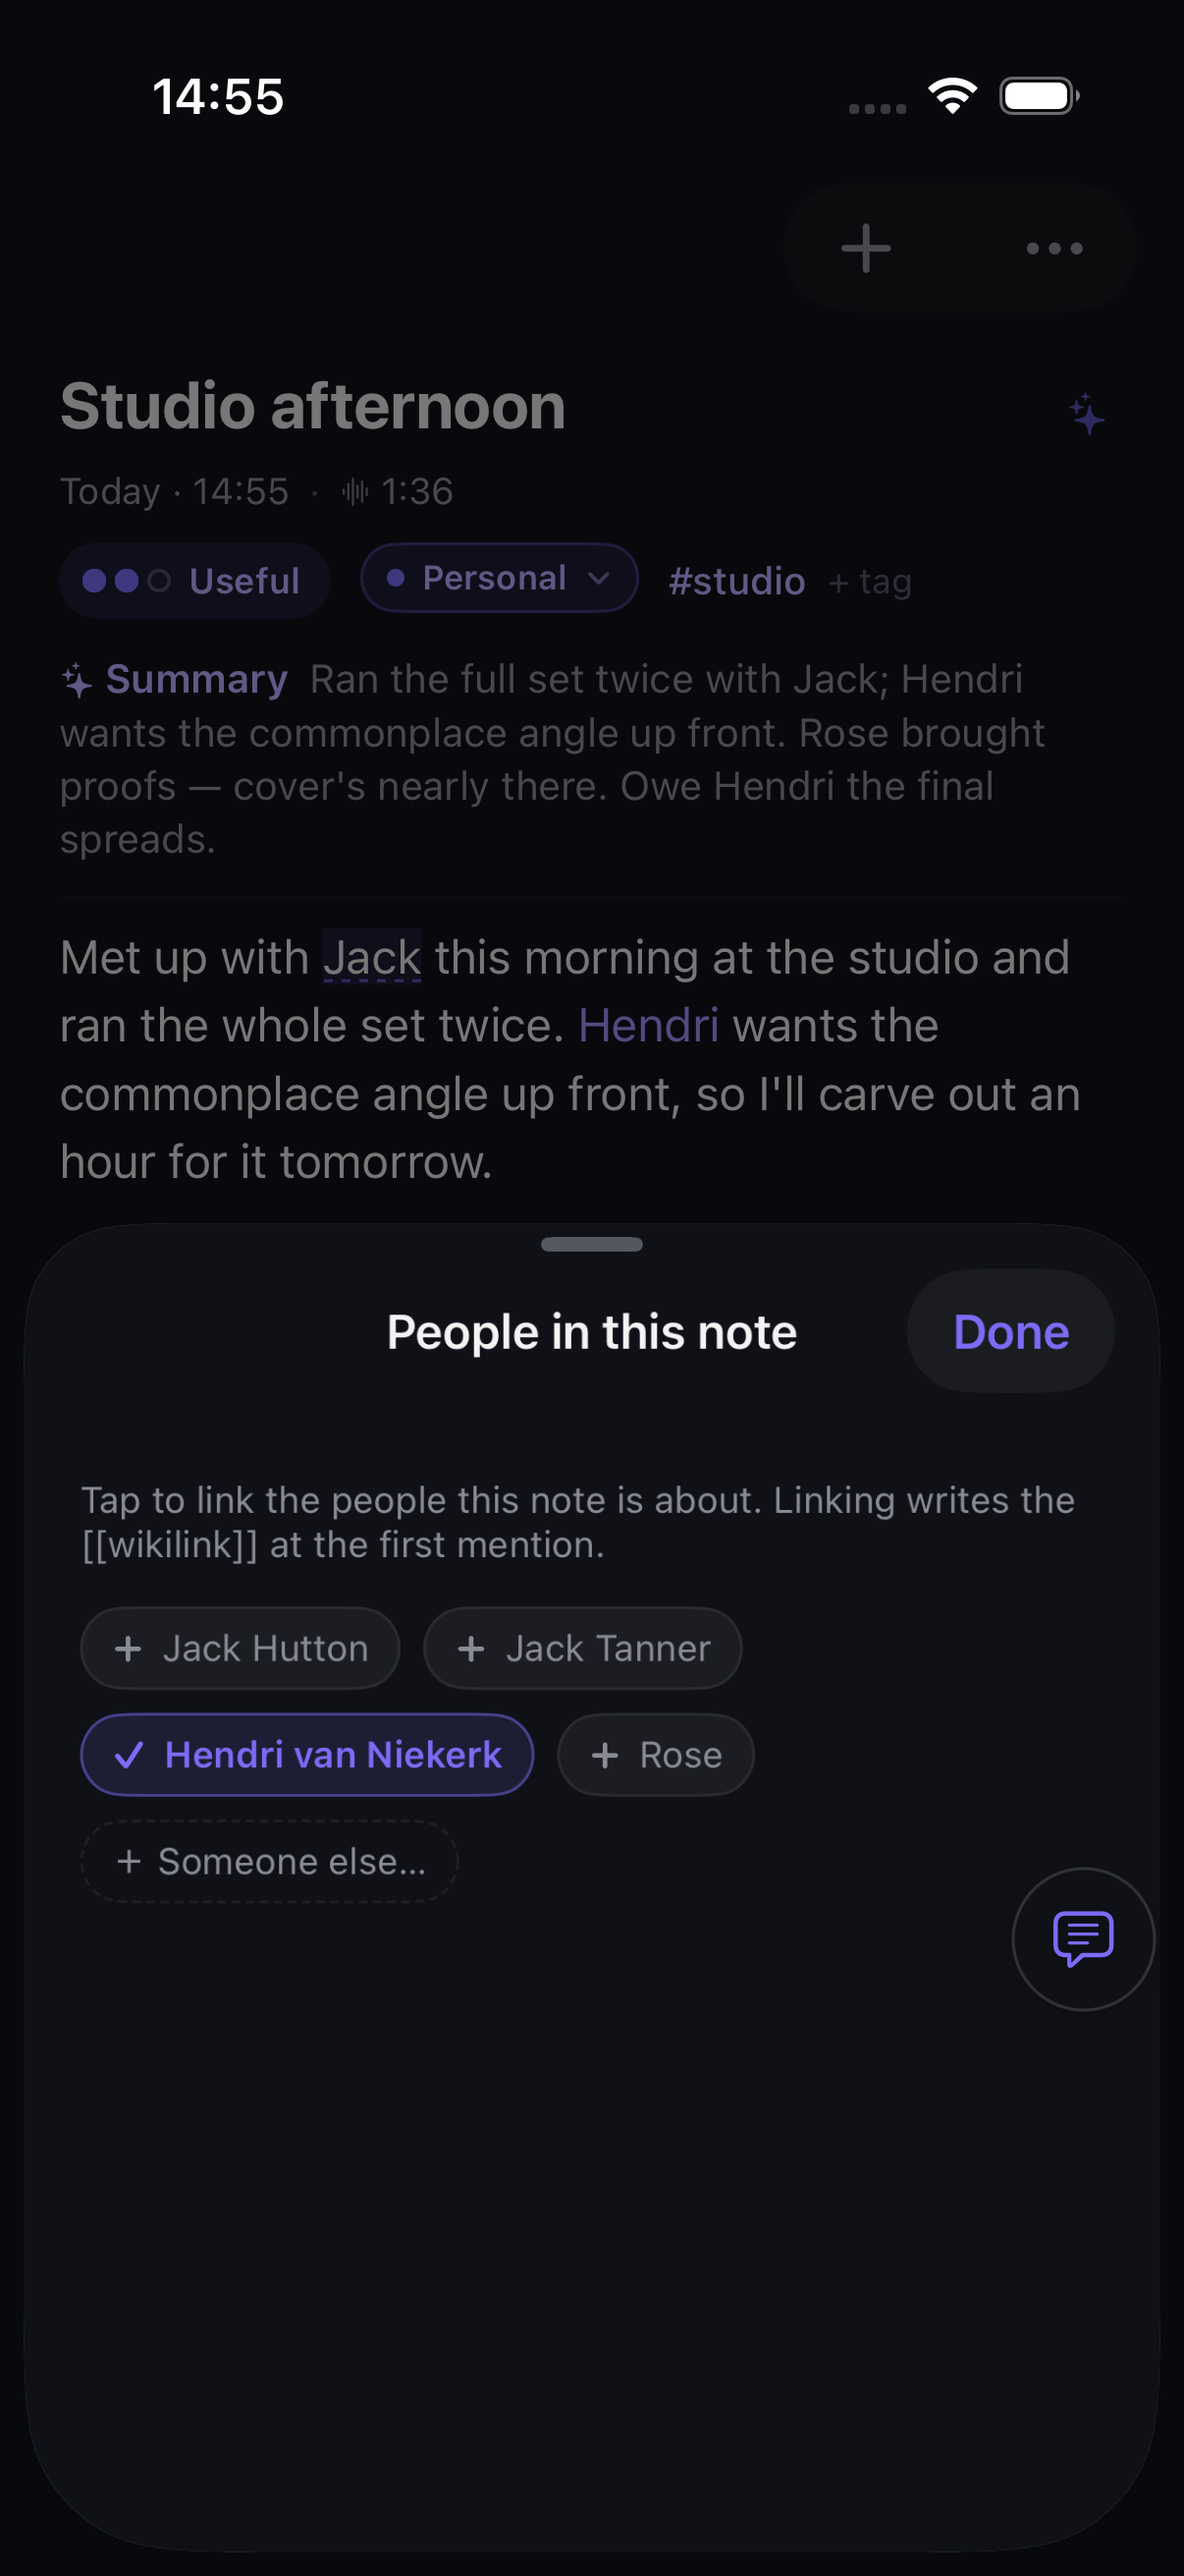
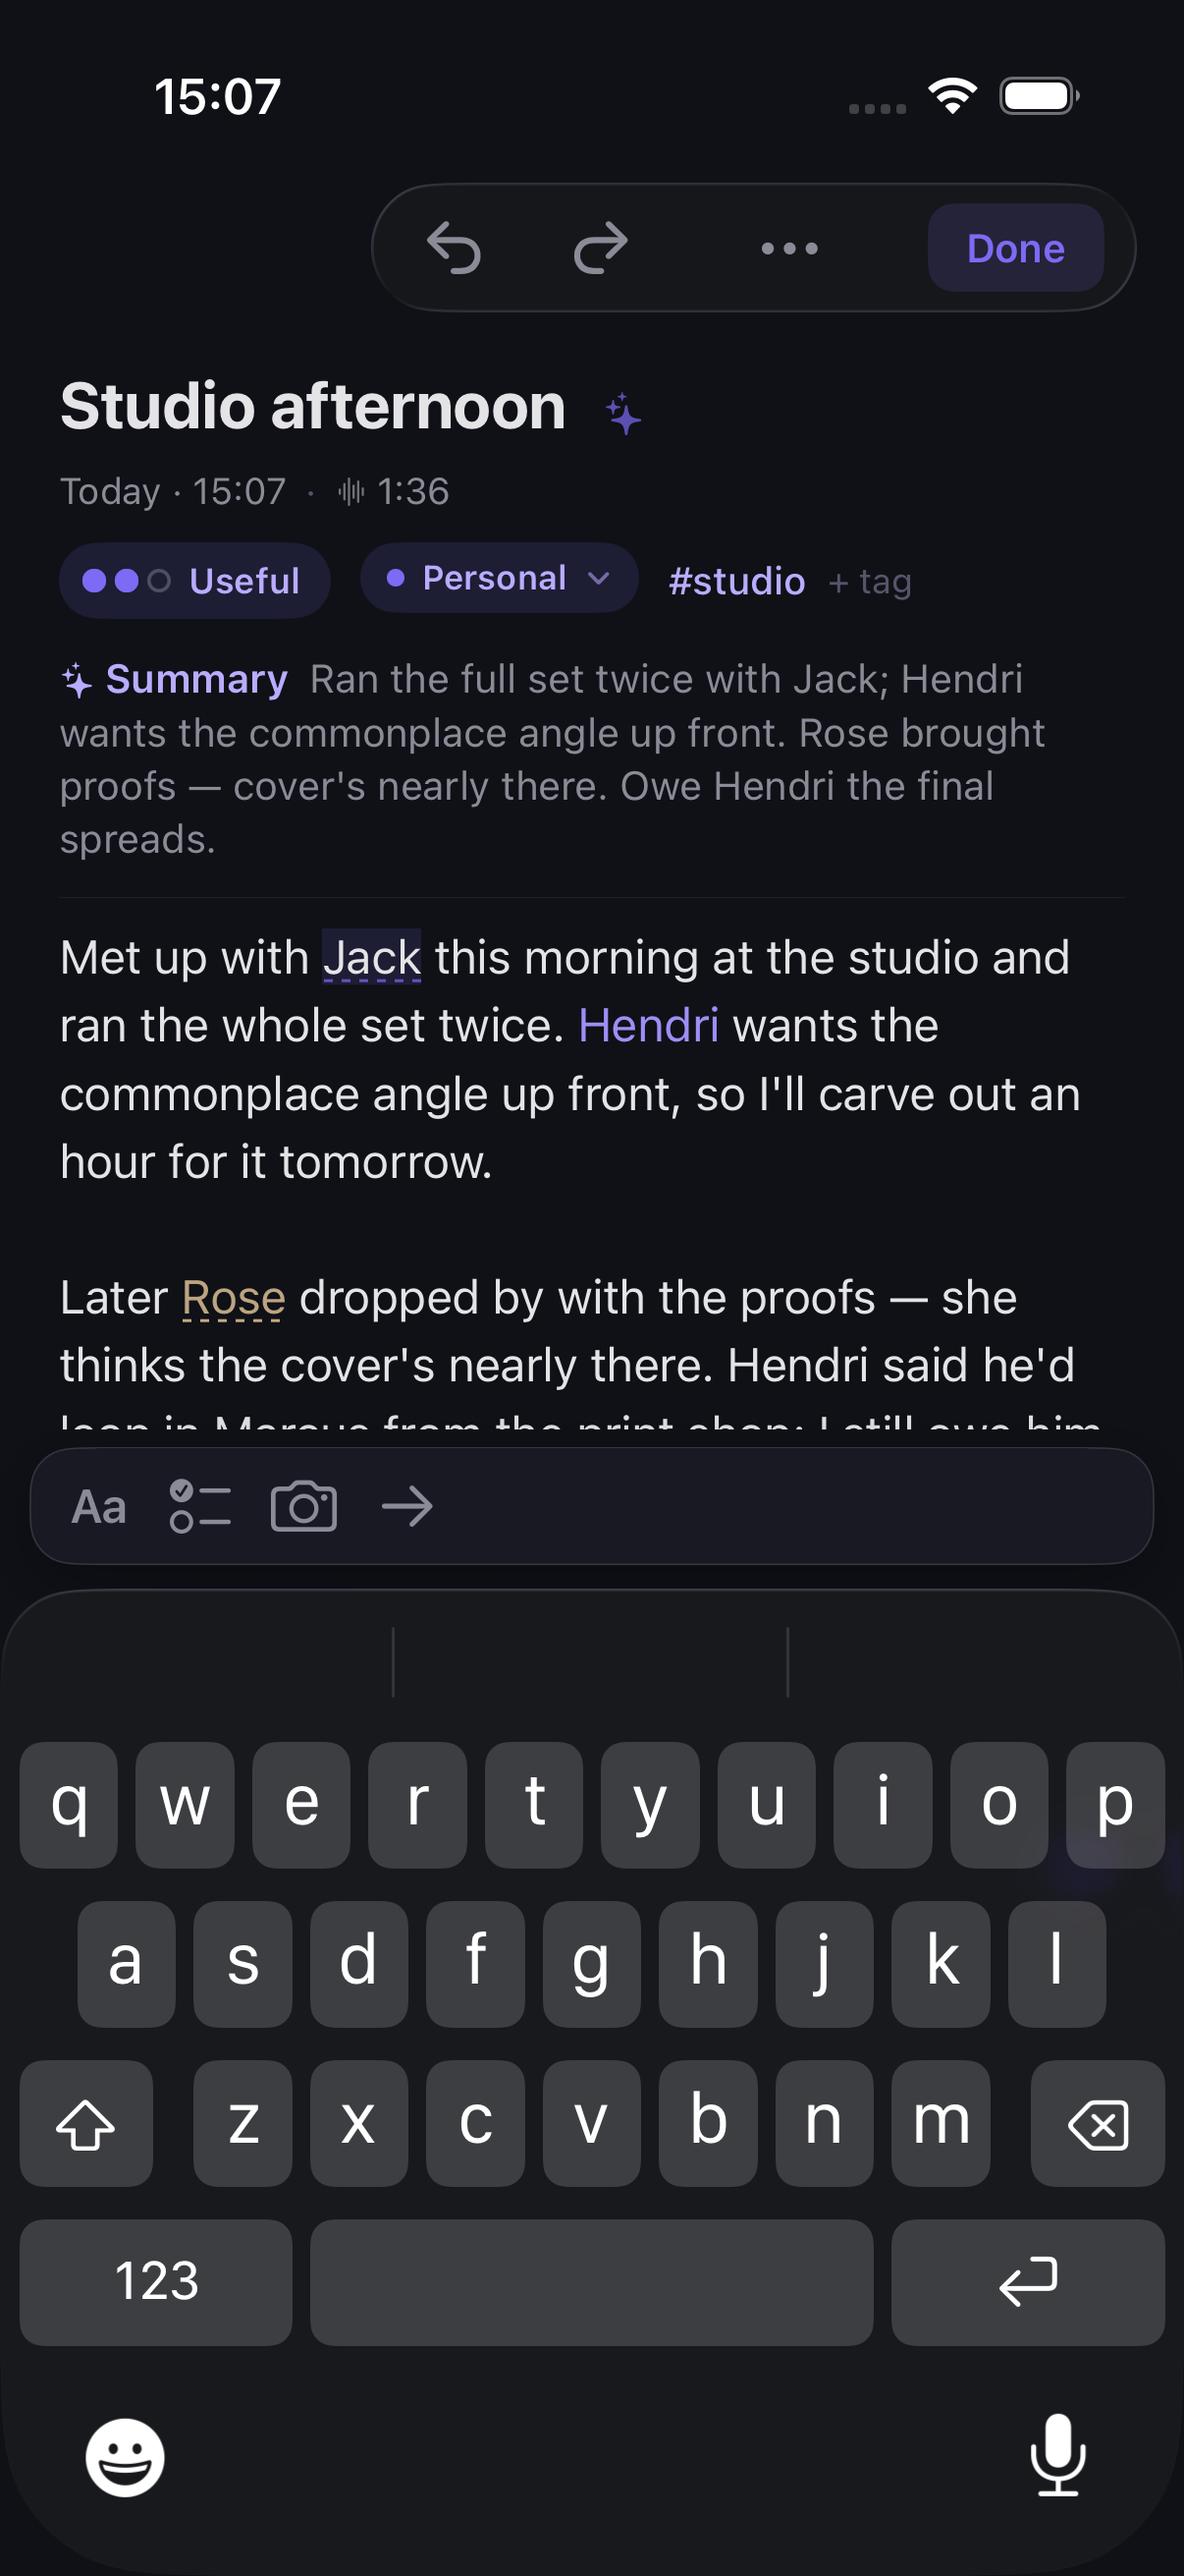
Q359 step 1: screenshot test passes (open the row, format ids), player hides while typing, phone-1..7 PNGs

diff --git a/Skrift_Native/SkriftMobile/SkriftMobileUITests/EditorAppleQ359ScreenshotUITests.swift b/Skrift_Native/SkriftMobile/SkriftMobileUITests/EditorAppleQ359ScreenshotUITests.swift
@@ -26,6 +26,13 @@ final class EditorAppleQ359ScreenshotUITests: XCTestCase {
         return app
     }
 
+    /// Seeds with several notes open on the list at phone width: tap the newest row.
+    private func openFirstNote(_ app: XCUIApplication) {
+        if app.textViews["transcript-editor"].waitForExistence(timeout: 6) { return }
+        let row = app.descendants(matching: .any).matching(identifier: "memo-row-0").firstMatch
+        if row.waitForExistence(timeout: 10) { row.tap() }
+    }
+
     func testReadingTypingSelectionAndAa() {
         let app = launch("-seedPolished")
         let editor = app.textViews["transcript-editor"]
@@ -56,6 +63,7 @@ final class EditorAppleQ359ScreenshotUITests: XCTestCase {
 
     func testMoveAPhoto() {
         let app = launch("-seedPhotoTextMemo")
+        openFirstNote(app)
         let editor = app.textViews["transcript-editor"]
         XCTAssertTrue(editor.waitForExistence(timeout: 25), "editor missing")
         capture(app, "phone-5-photo-before")
@@ -66,12 +74,14 @@ final class EditorAppleQ359ScreenshotUITests: XCTestCase {
 
     func testBookQuote() {
         let app = launch("-seedQuoteMemo")
+        openFirstNote(app)
         XCTAssertTrue(app.textViews["transcript-editor"].waitForExistence(timeout: 25), "editor missing")
         capture(app, "phone-6-quote")
     }
 
     func testSpeakers() {
         let app = launch("-seedConversationMemo")
+        openFirstNote(app)
         XCTAssertTrue(app.buttons["detail-menu"].waitForExistence(timeout: 25), "note missing")
         capture(app, "phone-7-speakers")
     }

diff --git a/Skrift_Native/SkriftMobile/Features/MemoDetail/MemoDetailView.swift b/Skrift_Native/SkriftMobile/Features/MemoDetail/MemoDetailView.swift
@@ -648,7 +648,9 @@ struct MemoDetailView: View {
         // ipad-note-chrome-belongs.html) so the Connections visitor sheet can
         // stop above it — see `dockedPlayer`.
         .safeAreaInset(edge: .bottom, spacing: 0) {
-            if hSize != .regular, currentMemo?.isShareCapture != true {
+            // Q359 (mock Q350): the player shows in Reading only; while typing the keyboard bar
+            // owns the bottom edge.
+            if hSize != .regular, currentMemo?.isShareCapture != true, !editorChrome.isEditing {
                 bottomChrome
             }
         }

diff --git a/Skrift_Native/SkriftMobile/Features/MemoDetail/NoteFormatPanel.swift b/Skrift_Native/SkriftMobile/Features/MemoDetail/NoteFormatPanel.swift
@@ -73,6 +73,9 @@ struct NoteFormatPanel: View {
         .padding(.horizontal, 16).padding(.top, 10).padding(.bottom, 12)
         .frame(maxWidth: .infinity, maxHeight: .infinity, alignment: .top)
         .background(Color.skSurface)
+        // .contain keeps the container's id off its buttons (a bare id on a stack stamped
+        // 'format-panel' on every child, so 'format-B' was never findable).
+        .accessibilityElement(children: .contain)
         .accessibilityIdentifier("format-panel")
     }
 
